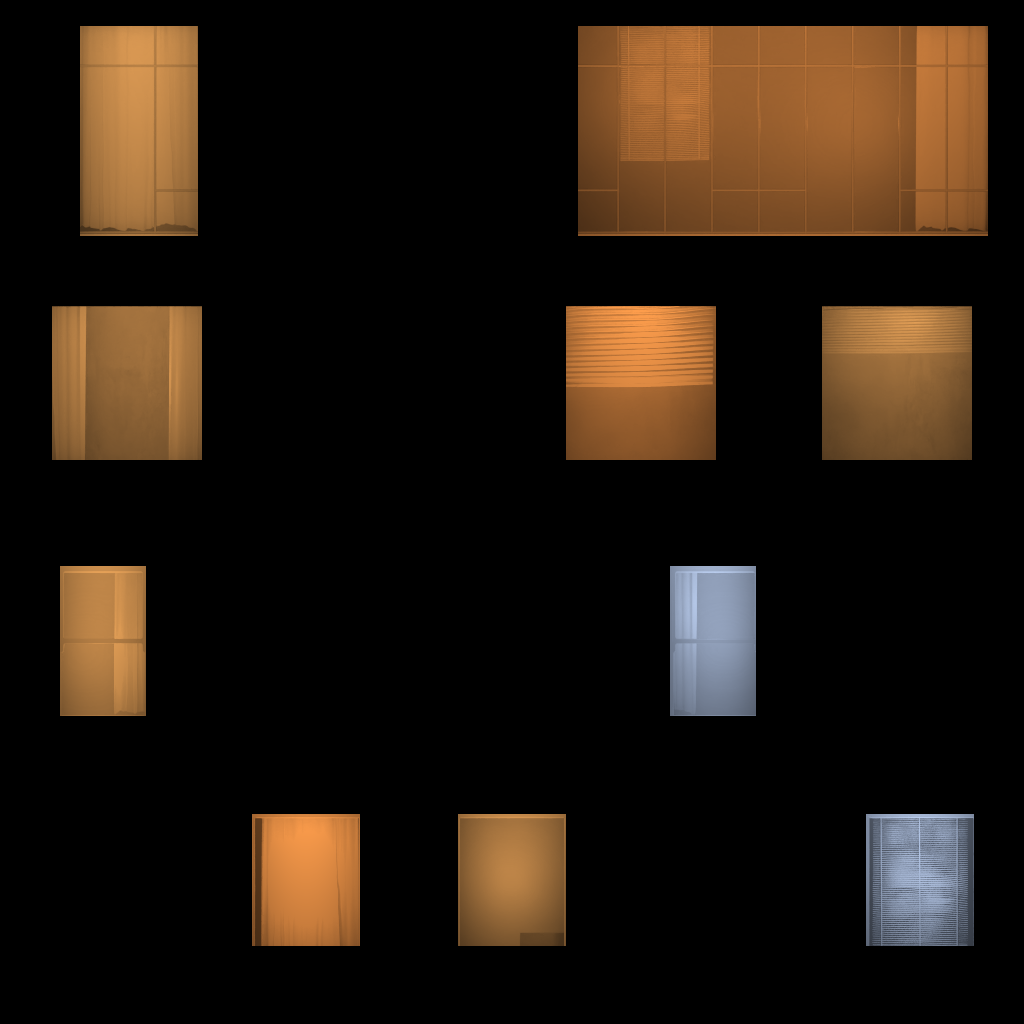
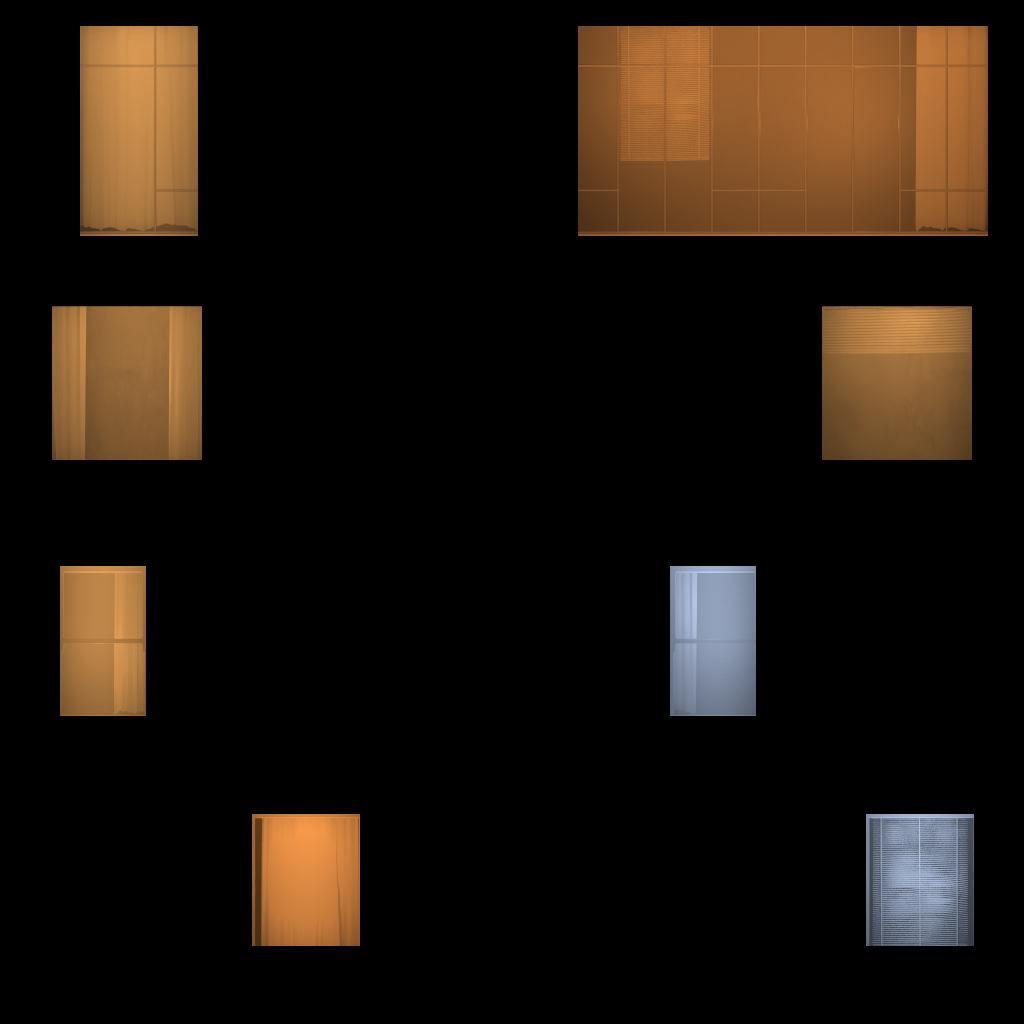
Night lighting tuned against West Coast USA at night: fewer lit windows, brighter sodium-warm lamps
West Coast USA at night: most windows dark, streets lit continuously in sodium orange. About 40 % of the plaster
sheet's windows lit (was half), 200 nits (was 260); 40 lamp lights within 180 m (were 24 within 150), brightness 8,
range 34 m, warmer. The lights measured free before (PC 4.07 vs 5.30 ms, Deck 19.4 vs 23.0 ms a frame with them on
vs off at a night street view: the darker image cost more).

Claude-Session: https://claude.ai/code/session_01KnTDPZC5MxXWpBuDGJtvND

Changed region(s): [[0.5312, 0.2812, 0.7188, 0.4688], [0.4375, 0.7812, 0.5625, 0.9375]]

diff --git a/tools/build_night_windows.py b/tools/build_night_windows.py
@@ -1,7 +1,7 @@
 """build_night_windows.py: the buildings' lit windows at night (nightlights.lua turns them on after dusk), two emissive
 maps beside the building materials (mod/.../art/shapes/beamngEarth/):
 
-  bne_facade_night_e.png  the plaster window sheet (m_highrise_plaster, bne_bld_facade): about half its windows lit,
+  bne_facade_night_e.png  the plaster window sheet (m_highrise_plaster, bne_bld_facade): about 40 % of its windows lit (West Coast USA at night: most of its windows dark),
                           each a room's light (warm, now and then cool white), brighter toward the ceiling, through
                           the curtains the sheet draws (the stock map lights only one row of it, four windows)
   bne_office_night_e.png  the metal sheet (offices' curtain walls and shopfronts, bne_bld_office / bne_bld_shop): the
@@ -31,9 +31,9 @@ METAL_E = "assets/materials/trim/metal/t_highrise_metal/t_highrise_metal_e.color
 # open (black) windows buildings.py never uses.
 OPENINGS = [
     [((80, 26, 198, 236), 1), ((330, 26, 446, 236), 0), ((578, 26, 988, 236), 1)],
-    [((52, 306, 202, 460), 1), ((308, 306, 458, 460), 0), ((566, 306, 716, 460), 1), ((822, 306, 972, 460), 1)],
+    [((52, 306, 202, 460), 1), ((308, 306, 458, 460), 0), ((566, 306, 716, 460), 0), ((822, 306, 972, 460), 1)],
     [((60, 566, 146, 716), 1), None, ((466, 566, 554, 716), 0), ((670, 566, 756, 716), 1), None],
-    [((46, 814, 154, 946), 0), ((252, 814, 360, 946), 1), ((458, 814, 566, 946), 1), ((662, 814, 770, 946), 0),
+    [((46, 814, 154, 946), 0), ((252, 814, 360, 946), 1), ((458, 814, 566, 946), 0), ((662, 814, 770, 946), 0),
      ((866, 814, 974, 946), 1)],
 ]
 WARM = (1.0, 0.70, 0.38)       # incandescent / warm LED, ~2700 K
